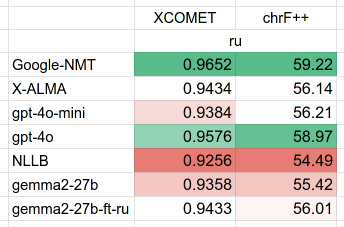
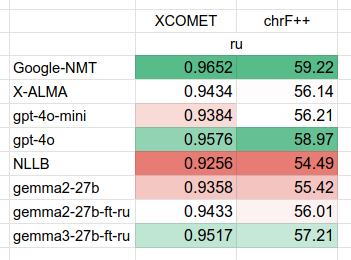
gd25 update

diff --git a/index.html b/index.html
@@ -23,7 +23,7 @@
 				<img src="img/intro.png" height="400px" style="margin: 0px;">
 				<h2 style="margin: 0px;">But not quite yet</h2>
 				<br>
-				<small>DHSE Consumer DS Chapter | 2025 | Roman Grebennikov</small>
+				<small>Ghost Day | 2025 | Roman Grebennikov</small>
 			</section>
 			<section>
 				<h2>Agenda</h2>
@@ -249,7 +249,7 @@ $source
 				<h2>DIY results</h2>
 				<p><img src="img/diy.png" height="350px"></p>
 				<ul>
-					<li>yay +1% quality to Gemma2-27B</li>
+					<li>yay gemma3: better results than gpt-4o-mini</li>
 					<li>Same results as X-ALMA in 2h of work</li>
 				</ul>
 			</section>
